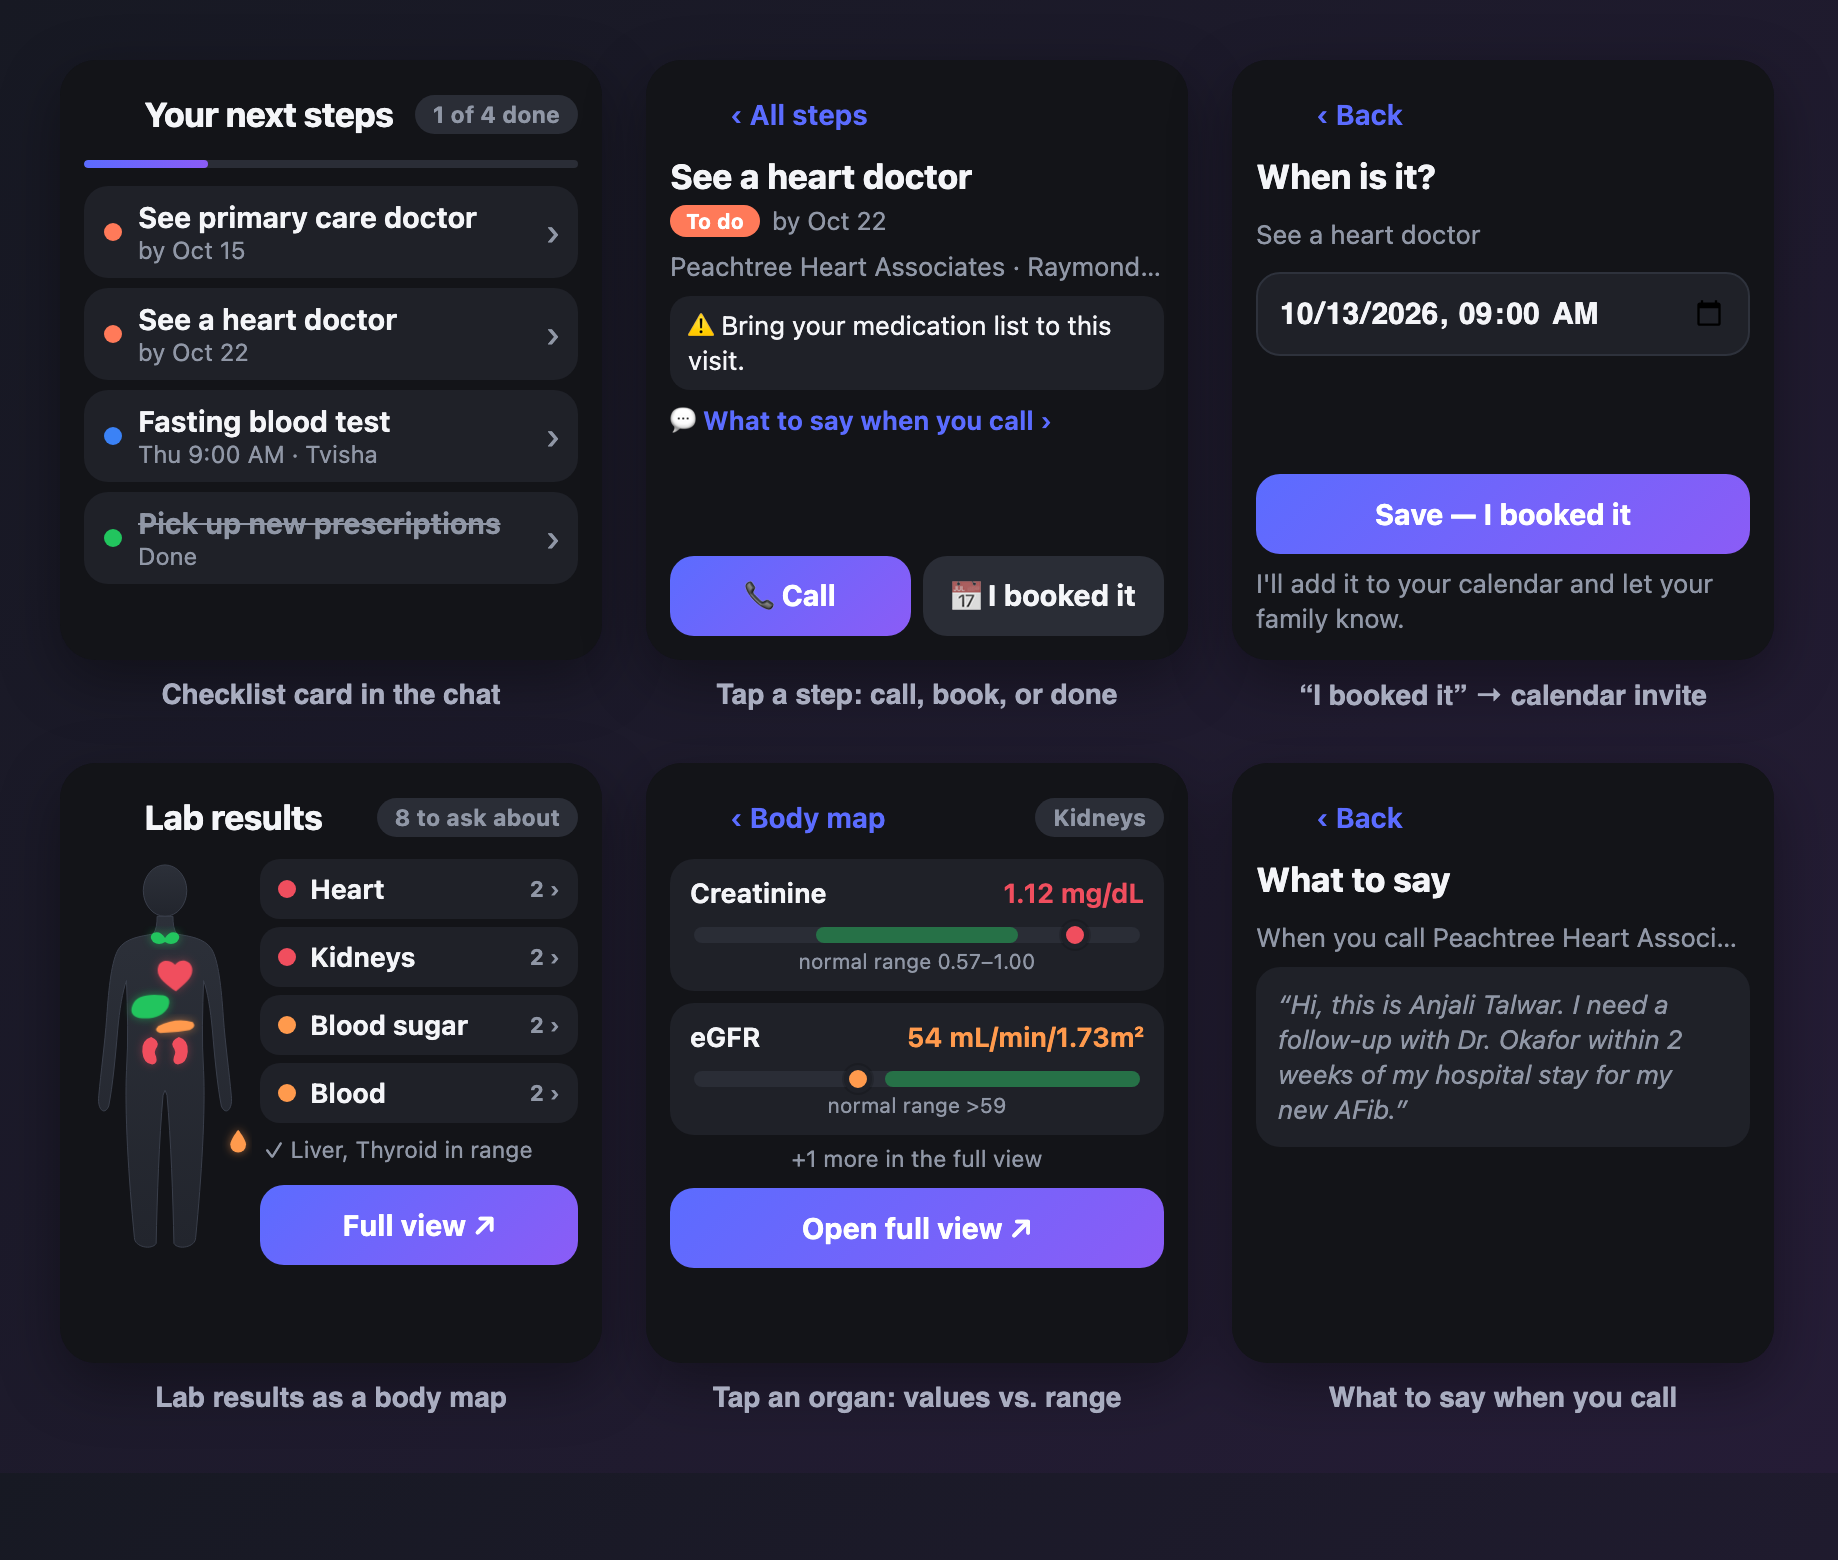
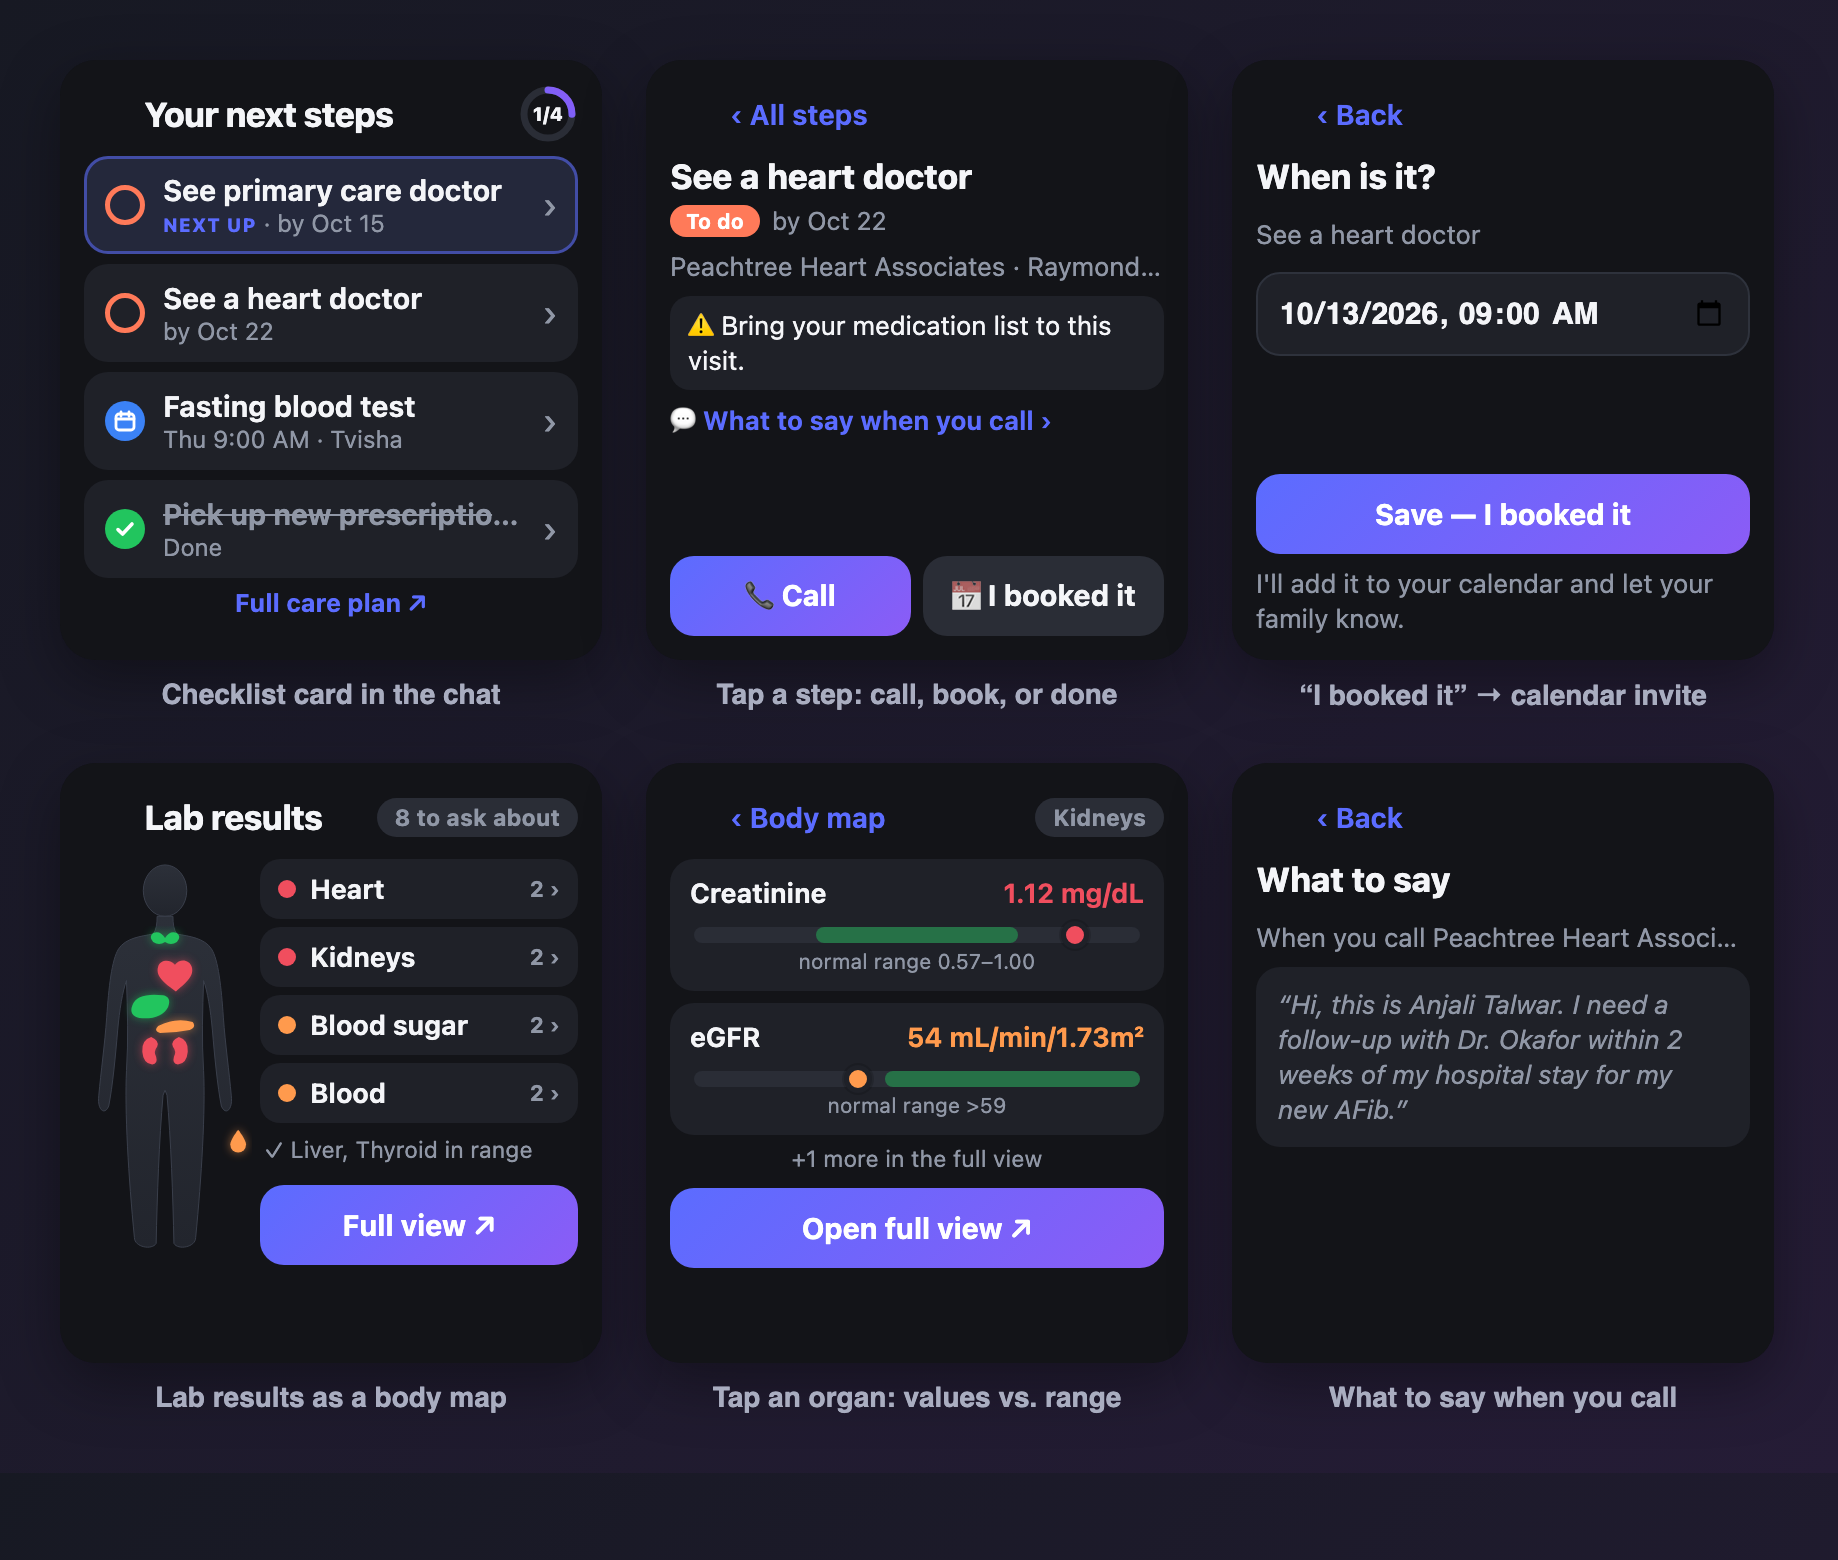
README: care plan, link previews, and live dashboard screenshots

Changed region(s): [[0.031, 0.0615, 0.3101, 0.3692], [0.124, 0.3692, 0.2171, 0.4]]

diff --git a/scripts/screenshots.ts b/scripts/screenshots.ts
@@ -1,8 +1,14 @@
 // `bun scripts/screenshots.ts` — renders the README images in docs/screenshots/
-// from the real card pages and the real OpenCV output (fictional demo data).
+// from the real pages and the real OpenCV output (fictional demo data). The
+// dashboard shot uses whatever is in juno.db, so run a demo first.
 import { mkdirSync } from "node:fs";
+import type { Discharge } from "../src/gemini.ts";
 import { group } from "../src/labs.ts";
+import { log } from "../src/log.ts";
 import { labsPage } from "../src/web/bodymap.ts";
+import { labsOg, planOg } from "../src/web/og.ts";
+import { planPage } from "../src/web/plan.ts";
+import { web } from "../src/web/server.ts";
 import { trackerPage, type CardTodo } from "../src/web/tracker.ts";
 
 const CHROME = "/Applications/Google Chrome.app/Contents/MacOS/Google Chrome";
@@ -17,6 +23,7 @@ const todos: CardTodo[] = [
   {
     ...base, id: "lab", title: "Fasting blood test", status: "booked", due: "by Oct 15", when: "Thu, Oct 15 · 9:00 AM", whenShort: "Thu 9:00 AM",
     helper: "Tvisha", clinic: "Peachtree Labs", phone: "(404) 555-0178", script: null, prep: "Nothing to eat or drink except water for 10–12 hours before.",
+    why: "To recheck your potassium and kidney function on the new medicines.",
   },
   {
     ...base, id: "pcp", title: "See primary care doctor", status: "todo", due: "by Oct 15", clinic: "Midtown Family Medicine · Linda Chen, MD", phone: "(404) 555-0115",
@@ -26,16 +33,58 @@ const todos: CardTodo[] = [
   },
   {
     ...base, id: "heart", title: "See a heart doctor", status: "todo", due: "by Oct 22", clinic: "Peachtree Heart Associates · Raymond Okafor, MD", phone: "(404) 555-0142",
+    why: "For your new AFib diagnosis and blood thinner.",
     script: "Hi, this is Anjali Talwar. I need a follow-up with Dr. Okafor within 2 weeks of my hospital stay for my new AFib.", prep: "Bring your medication list to this visit.",
   },
 ];
 
-await Bun.write(`${SHOTS}/tracker.html`, String(await trackerPage(todos, { subtitle: "From your Oct 8 hospital visit", token: null, nowLocal: "2026-10-12T18:00", defaultLocal: "2026-10-13T09:00" })));
 const labs = JSON.parse(await Bun.file("docs/fixtures/labs.json").text()); // Gemini output for docs/labs.png
+const discharge = JSON.parse(await Bun.file("docs/fixtures/discharge.json").text()) as Discharge; // Gemini output for the discharge photos
+
+await Bun.write(`${SHOTS}/tracker.html`, String(await trackerPage(todos, { subtitle: "From your Oct 8 hospital visit", token: null, nowLocal: "2026-10-12T18:00", defaultLocal: "2026-10-13T09:00" })));
 await Bun.write(`${SHOTS}/labs.html`, String(await labsPage(group(labs.tests), { collected: "Oct 15, 2026", doctor: labs.ordering_provider, token: "demo", docId: "demo", fullUrl: "#", ogImage: "" })));
+const order = { booked: 0, todo: 1, done: 2 } as const;
+await Bun.write(
+  `${SHOTS}/plan.html`,
+  String(
+    await planPage({
+      title: "Anjali's care plan",
+      subtitle: "From her Oct 8 hospital visit · Peachtree Regional Medical Center",
+      reason: discharge.reason_plain,
+      warnings: discharge.warning_signs,
+      meds: discharge.medications.map((m) => ({ name: m.name, dose: m.dose, how: m.how_to_take_plain, status: m.status })),
+      steps: [...todos].sort((a, b) => order[a.status] - order[b.status]).map((t) => ({ ...t, date: t.status === "booked" ? t.when! : t.due!, ics: t.status === "booked" ? "#" : null })),
+      circle: [{ name: "Tvisha", share: "everything" }],
+      family: true,
+      token: "demo",
+      ogImage: "",
+      ogDescription: "",
+    }),
+  ),
+);
+
+// Link previews exactly as iMessage shows them (og:image).
+await Bun.write(`${SHOTS}/og-labs.jpg`, labsOg(group(labs.tests), { collected: "Oct 15, 2026", doctor: labs.ordering_provider }));
+await Bun.write(
+  `${SHOTS}/og-plan.jpg`,
+  planOg({
+    title: "Anjali's care plan",
+    subtitle: "From her Oct 8 hospital visit · Peachtree Regional Medical Center",
+    steps: todos.map((t) => ({ title: t.title, status: t.status, date: t.status === "booked" ? t.whenShort! : t.due! })),
+  }),
+);
 
 // Real OpenCV output for the first demo photo.
 await Bun.spawn([".venv/bin/python", "cv/flatten.py", "docs/photos/1-discharge-page1.jpg", `${SHOTS}/cv`]).exited;
+
+// The live dashboard needs a server: serve the web app locally with a few feed events.
+const server = Bun.serve({ port: 3101, fetch: web.fetch });
+for (const [e, m] of [
+  ["📷", "received 2 photos → doc_x"], ["🧼", "OpenCV: page found (54% of photo), flattened"], ["🗂", "classified as discharge"],
+  ["🤖", "discharge: 4 todos, 6 warning signs, 5 meds"], ["💳", "tracker card sent (v1)"], ["🔔", "nudge 1 → Anjali: Fasting blood test"],
+  ["🔔", "nudge 2 → Anjali: Fasting blood test"], ["🚨", "escalated Fasting blood test to Tvisha (both nudges read)"],
+] as const)
+  log(e, m);
 
 const page = (body: string, bg = "linear-gradient(135deg,#171923,#251c36)") => `<!doctype html><html><head><meta charset="utf-8"><style>
   body { margin:0; background:${bg}; font:600 14px -apple-system, sans-serif; color:#E8E9F0; }
@@ -47,16 +96,16 @@ const page = (body: string, bg = "linear-gradient(135deg,#171923,#251c36)") => `
 
 const bubble = (src: string, caption: string) => `<figure><iframe src="${src}" style="width:271px;height:300px"></iframe><figcaption>${caption}</figcaption></figure>`;
 
-const shots: [string, string, number, number][] = [
+const shots: [string, string, number, number, string?][] = [
   [
     "cards",
     page(`<div class="grid" style="grid-template-columns:repeat(3,271px)">
-      ${bubble("tracker.html", "Checklist card in the chat")}
-      ${bubble("tracker.html#detail=heart", "Tap a step: call, book, or done")}
-      ${bubble("tracker.html#book=heart", "“I booked it” → calendar invite")}
-      ${bubble("labs.html", "Lab results as a body map")}
-      ${bubble("labs.html#organ=kidneys", "Tap an organ: values vs. range")}
-      ${bubble("tracker.html#say=heart", "What to say when you call")}
+      ${bubble("tracker.html?still", "Checklist card in the chat")}
+      ${bubble("tracker.html?still#detail=heart", "Tap a step: call, book, or done")}
+      ${bubble("tracker.html?still#book=heart", "“I booked it” → calendar invite")}
+      ${bubble("labs.html?still", "Lab results as a body map")}
+      ${bubble("labs.html?still#organ=kidneys", "Tap an organ: values vs. range")}
+      ${bubble("tracker.html?still#say=heart", "What to say when you call")}
     </div>`),
     919,
     780,
@@ -70,26 +119,44 @@ const shots: [string, string, number, number][] = [
     </div>`),
     1004,
     500,
+    "jpg",
   ],
   [
-    "labs-full",
-    page(`<div class="grid" style="grid-template-columns:390px"><figure><iframe src="labs.html" style="width:390px;height:1060px"></iframe></figure></div>`),
-    450,
-    1120,
+    "full-pages",
+    page(`<div class="grid" style="grid-template-columns:390px 390px">
+      <figure><iframe src="plan.html?still" style="width:390px;height:1180px"></iframe><figcaption>Care plan (opens from the checklist; sent to family)</figcaption></figure>
+      <figure><iframe src="labs.html?still" style="width:390px;height:1180px;background:#131418"></iframe><figcaption>Full lab results (opens from the body map)</figcaption></figure>
+    </div>`),
+    866,
+    1270,
   ],
+  [
+    "link-previews",
+    page(`<div class="grid" style="grid-template-columns:520px 520px">
+      <figure><img src="og-plan.jpg" style="height:auto"><figcaption>Care plan link, as it appears in iMessage</figcaption></figure>
+      <figure><img src="og-labs.jpg" style="height:auto"><figcaption>Lab results link, as it appears in iMessage</figcaption></figure>
+    </div>`),
+    1126,
+    400,
+    "jpg",
+  ],
+  ["brain", "", 1440, 900],
 ];
 
-for (const [name, html, w, h] of shots) {
-  await Bun.write(`${SHOTS}/${name}-compose.html`, html);
+for (const [name, html, w, h, fmt] of shots) {
   const png = `${SHOTS}/${name}.png`;
+  const url = name === "brain" ? "http://localhost:3101/brain" : `file://${process.cwd()}/${SHOTS}/${name}-compose.html`;
+  if (html) await Bun.write(`${SHOTS}/${name}-compose.html`, html);
   await Bun.spawn(
-    [CHROME, "--headless=new", "--disable-gpu", "--hide-scrollbars", "--force-device-scale-factor=2", `--window-size=${w},${h}`,
-      "--allow-file-access-from-files", "--virtual-time-budget=3000", `--screenshot=${png}`, `file://${process.cwd()}/${SHOTS}/${name}-compose.html`],
+    [CHROME, "--headless=new", "--disable-gpu", "--hide-scrollbars", `--force-device-scale-factor=${name === "brain" ? 1.5 : 2}`, `--window-size=${w},${h}`,
+      "--allow-file-access-from-files", "--virtual-time-budget=4000", `--screenshot=${png}`, url],
     { stdout: "ignore", stderr: "ignore" },
   ).exited;
   // Photos compress far better as JPEG; UI shots stay PNG for crisp text.
-  const out = name === "cv-pipeline" ? `${OUT}/${name}.jpg` : `${OUT}/${name}.png`;
-  if (out.endsWith(".jpg")) await Bun.spawn(["sips", "-s", "format", "jpeg", "-s", "formatOptions", "82", png, "--out", out], { stdout: "ignore" }).exited;
+  const out = fmt === "jpg" || name === "brain" ? `${OUT}/${name}.jpg` : `${OUT}/${name}.png`;
+  if (out.endsWith(".jpg")) await Bun.spawn(["sips", "-s", "format", "jpeg", "-s", "formatOptions", "84", png, "--out", out], { stdout: "ignore" }).exited;
   else await Bun.write(out, Bun.file(png));
   console.log(`wrote ${out}`);
 }
+server.stop(true);
+process.exit(0);

diff --git a/README.md b/README.md
@@ -34,21 +34,28 @@ The photo is cleaned up before any AI sees it. [`cv/flatten.py`](cv/flatten.py) 
 
 Then Gemini reads all the pages of a burst in one call and returns strict JSON, validated with zod. The prompts follow three rules: extract only what's on the page, never invent a phone number or date, and use plain language.
 
-<table>
-<tr>
-<td width="46%"><img src="docs/screenshots/labs-full.png" alt="Full lab results view with a body map and questions for the doctor"/></td>
-<td>
-
 ### Lab results, made legible
 
 - Each test is mapped to an organ by a **fixed table in code** (kidneys, liver, heart & vessels, thyroid, blood sugar, blood & general), never by the model.
 - Colors are **computed from the reference range printed on the report**: in range, slightly outside (≤10% past the edge), or outside. The model never decides what's "good" or "bad".
 - Every test gets a one-line, neutral description of *what it measures*, with no interpretation.
-- Results outside the range become **questions for the doctor**, and they're added as notes on the upcoming primary-care visit.
+- Results outside the range become **questions for the doctor** (printable), and they're added as notes on the upcoming primary-care visit.
 
-</td>
-</tr>
-</table>
+## Beyond the bubble
+
+Tap **Full care plan** or **Full view** and Juno opens a full-screen page. The **care plan** puts warning signs first, then a timeline of every visit (call, add to calendar, what to say) and the medicines with NEW / STOP badges and a morning/evening schedule. The family gets the same plan from their side of the conversation. The **lab view** animates the body map, puts every result on a range bar, and lists the questions to bring to the doctor.
+
+<p align="center"><img src="docs/screenshots/full-pages.png" alt="The care plan page and the full lab results page" width="720"/></p>
+
+Links never arrive as gray URLs: Juno draws a **preview image for every link** on the server (`og:image`), so iMessage shows a designed card.
+
+<p align="center"><img src="docs/screenshots/link-previews.jpg" alt="Link previews for the care plan and the lab results as they appear in iMessage" width="860"/></p>
+
+## Juno's brain (the laptop view)
+
+A live dashboard for demos at `localhost:3000/brain`: every step as it happens, the photo → detected page → flattened scan with what Gemini read, and the care board moving from To do → Booked → Done. It only answers on the laptop itself, and phone numbers are replaced by names before anything reaches the screen.
+
+<p align="center"><img src="docs/screenshots/brain.jpg" alt="Juno's live dashboard: activity feed, document reading, and care board" width="860"/></p>
 
 ## Built for iMessage with Photon Spectrum
 
@@ -63,6 +70,7 @@ Juno runs on [Photon's Spectrum SDK](https://github.com/photon-hq/spectrum-ts) a
 | **Tapbacks** | ❤ on a reminder → "Did you book it? What day and time?"; ❓ → the number and script again. |
 | **Typing, mark-as-read, 👀, effects** | Feels like texting a person; confetti when the whole list is done. |
 | **Attachments** | Calendar invites (`.ics`) for every booked visit, with a reminder the day before. |
+| **Rich links** | The full care plan and lab view arrive as links with designed preview images. |
 | **Separate 1:1 chats** | The caregiver gets their own conversation with Juno, with updates and the ability to book for Mom. |
 
 ## Safety by design
@@ -95,7 +103,7 @@ src/
   gemini.ts         schemas + prompts; model fallback; photo-result cache
   vision.ts         runs cv/flatten.py (HEIC → JPEG via sips)
   flows/            documents · status (booked/done) · caregiver · nudges · admin
-  web/              tracker card · lab body map · theme · routes + card actions
+  web/              cards (tracker, body map) · care plan · link-preview images · dashboard · routes
   cards.ts          send or edit a live card (persisted sessions)
   labs.ts           bands + organ mapping (code, not LLM)
   db.ts, clock.ts   SQLite + virtual clock for demos
@@ -122,7 +130,7 @@ bun run tunnel          # terminal 1: public URL for the card pages
 bun run start           # terminal 2: Juno
 ```
 
-Then text Juno from a registered iPhone.
+Then text Juno from a registered iPhone, and open `http://localhost:3000/brain` on the laptop to watch it work.
 
 ### Demo script
 
